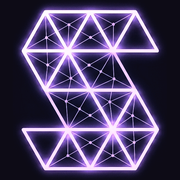
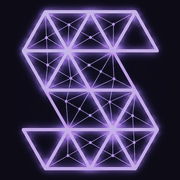
Quieter mark, one light-mode treatment, round flakes, 19:30 boundary
The mark was too shiny. Its core strokes measured (238,211,254) — near-white
with a heavy bloom baked into the artwork's alpha — and a strong CSS glow was
stacked on top of that. Both are dialled back: the PNGs are regenerated with a
thinner bloom and the strokes pulled off white toward the brand violet, and the
drop-shadows are roughly halved. Four strengths were rendered and compared
first; past this one the wireframe starts losing definition at navbar size.

Light mode now uses the same treatment everywhere — navbar, constellation hub
and loader — rather than the dark plate the navbar and loader had been given.
Contrast and saturation, no plate, so the mark reads as one thing in both
themes. Regenerated the favicons from the same master.

Snow: the light-mode flakes were too polite to see. In a clean strip of sky
only three pixels were more than 25/255 off the page ground; now it is 37, and
the strongest flake went from Δ42 to Δ140. They were also squares, because
pointsMaterial rasterises each point as a quad — they now carry a canvas-drawn
disc as a map.

Resume hover: reverted. Letting the fill round itself instead of clipping the
button left a visible grey ring — (178,181,193) for ~3px at the pill's edge
where the fill no longer reached it. The clip is back, and that button gives up
the 1px lift instead, which removes the moving hit box the stabiliser existed to
correct. Its gradient wipe already carries the hover.
[…]

diff --git a/frontend/app/globals.css b/frontend/app/globals.css
@@ -2345,9 +2345,11 @@ html[data-theme="light"] .core-ring-2 { border-color: rgba(124, 58, 237, 0.15); 
 }
 
 .core-logo { display: grid; place-items: center; }
+/* Halved from where this started. The artwork already carries its own bloom;
+   stacking a strong CSS glow on top of it was most of what read as glitter. */
 .logo-mark.is-glowing {
-  filter: drop-shadow(0 0 16px rgba(167, 139, 250, 0.9))
-    drop-shadow(0 0 38px rgba(139, 92, 246, 0.5));
+  filter: drop-shadow(0 0 12px rgba(167, 139, 250, 0.45))
+    drop-shadow(0 0 30px rgba(139, 92, 246, 0.22));
 }
 
 @media (prefers-reduced-motion: reduce) {
@@ -2434,18 +2436,13 @@ html[data-theme="light"] button:hover > .cta-button { box-shadow: none; }
    four directions instead of four separate keyframes. */
 .resume-btn {
   position: relative;
-  /* Deliberately not `overflow: hidden`. Clipping the button also clipped the
-     hover stabiliser below, which has to sit one pixel outside the padding box
-     to hold the hover boundary still. The fill carries its own rounding
-     instead, so nothing needs clipping: at rest it is scaled to zero, and at
-     full scale it is exactly the padding box. */
+  overflow: hidden;
   isolation: isolate;
 }
 .resume-btn .resume-fill {
   position: absolute;
   inset: 0;
   z-index: -1;
-  border-radius: inherit;
   background: var(--grad-accent);
   transition: transform 0.42s cubic-bezier(0.22, 1, 0.36, 1);
 }
@@ -2470,10 +2467,8 @@ html[data-theme="light"] button:hover > .cta-button { box-shadow: none; }
 .resume-btn:hover { border-color: transparent; }
 
 @media (prefers-reduced-motion: reduce) {
-  /* Was scale(7), which relied on the button clipping it. A fade reads the
-     same here and stays inside its own box. */
-  .resume-btn .resume-fill { transform: none; opacity: 0; transition: opacity 0.2s ease; }
-  .resume-btn:hover .resume-fill { opacity: 1; }
+  .resume-btn .resume-fill { transition: opacity 0.2s ease; }
+  .resume-btn:hover .resume-fill { transform: scale(7); }
 }
 
 /* ==========================================================================
@@ -3582,12 +3577,12 @@ html[data-theme="light"] .site-loader::before {
 @keyframes loader-mark {
   0%, 100% {
     transform: scale(0.97);
-    filter: drop-shadow(0 0 10px rgba(167, 139, 250, 0.45));
+    filter: drop-shadow(0 0 8px rgba(167, 139, 250, 0.24));
   }
   62% {
     transform: scale(1.03);
-    filter: drop-shadow(0 0 20px rgba(167, 139, 250, 0.95))
-      drop-shadow(0 0 46px rgba(139, 92, 246, 0.55));
+    filter: drop-shadow(0 0 15px rgba(167, 139, 250, 0.5))
+      drop-shadow(0 0 36px rgba(139, 92, 246, 0.24));
   }
 }
 
@@ -3720,6 +3715,17 @@ html[data-theme="light"] .site-loader::before {
   transition: transform 0.3s ease;
 }
 .btn-surface:hover::after { transform: translateY(1px); }
+
+/* Resume is the exception. It clips itself to keep the edge-wipe fill inside
+   the pill, and that clip crops the stabiliser's one overhanging pixel — an
+   attempt to let the fill round itself instead left a grey ring where it no
+   longer reached the button's edge. So this button gives up the 1px lift
+   rather than its fill: with no transform there is no moving hit box and no
+   flicker to correct. The gradient wipe already carries the hover; the shadow
+   below stands in for the pixel of rise. */
+.resume-btn:hover { transform: none; }
+.resume-btn:hover::after { transform: none; }
+.resume-btn:hover { box-shadow: 0 5px 20px rgba(109, 92, 246, 0.26); }
 .chat-fab::after { transition-duration: 0.25s; }
 .chat-fab:hover::after { transform: translateY(2px); }
 
@@ -3735,56 +3741,47 @@ html[data-theme="light"] .site-loader::before {
 
 /* ==========================================================================
    LIGHT THEME — the neon mark
-   The brand mark is a triangulated neon "S" drawn for a dark ground: pale
-   strokes with the glow baked into the artwork's alpha. Filtering it for light
-   mode was tried and rejected — darkening the strokes darkens the halo with
-   them, and the mark turns into a violet smudge. What the artwork actually
-   needs is the ground it was drawn for, so on light it gets a dark plate. The
-   theme already does exactly this with the assistant button, so it reads as
-   part of the design rather than an exception.
+   One treatment everywhere. The mark is a triangulated neon "S" whose glow
+   lives in the artwork's alpha, so on a light ground it needs contrast rather
+   than a different colour or a plate behind it — saturate and contrast sharpen
+   the strokes while leaving the halo soft, and the drop-shadow supplies the
+   glow the light background swallows. The navbar, the constellation hub and
+   the loader all use it, so the mark reads as one thing in both themes.
    ========================================================================== */
-html[data-theme="light"] .brand-mark {
-  background: #10151b;
-  border-color: rgba(16, 21, 27, 0.35);
+html[data-theme="light"] .logo-mark,
+html[data-theme="light"] .site-loader-mark {
+  filter: saturate(2) contrast(1.75) brightness(0.76)
+    drop-shadow(0 0 9px rgba(124, 58, 237, 0.3));
+}
+html[data-theme="light"] .logo-mark.is-glowing {
+  filter: saturate(2) contrast(1.75) brightness(0.76)
+    drop-shadow(0 0 15px rgba(124, 58, 237, 0.32))
+    drop-shadow(0 0 38px rgba(109, 40, 217, 0.15));
 }
 
-html[data-theme="light"] .site-loader-mark {
-  /* content-box so the padding grows the plate around the art instead of
-     shrinking the art inside it. */
-  box-sizing: content-box;
-  padding: 0.85rem;
-  border-radius: 1.4rem;
-  background: #10151b;
-  animation-name: loader-mark-light;
-}
-/* No brightness or saturation here: on its own plate the artwork is already
-   correct. Only the halo changes — a violet glow that reads on white, pulsing
-   on the same beat the dark theme uses. */
+/* The loader's monogram animates its own filter, so light mode needs matching
+   keyframes rather than a static filter the animation would overwrite. */
+html[data-theme="light"] .site-loader-mark { animation-name: loader-mark-light; }
 @keyframes loader-mark-light {
   0%, 100% {
     transform: scale(0.97);
-    filter: drop-shadow(0 6px 16px rgba(16, 21, 27, 0.16))
-      drop-shadow(0 0 12px rgba(124, 58, 237, 0.18));
+    filter: saturate(2) contrast(1.75) brightness(0.76)
+      drop-shadow(0 0 9px rgba(124, 58, 237, 0.26));
   }
   62% {
     transform: scale(1.03);
-    filter: drop-shadow(0 10px 26px rgba(16, 21, 27, 0.22))
-      drop-shadow(0 0 26px rgba(124, 58, 237, 0.42));
+    filter: saturate(2.05) contrast(1.8) brightness(0.72)
+      drop-shadow(0 0 18px rgba(124, 58, 237, 0.4))
+      drop-shadow(0 0 42px rgba(109, 40, 217, 0.17));
   }
 }
 /* The reduced-motion rule further up is less specific than the one naming the
    light keyframes, so it has to be restated or the animation survives. */
 @media (prefers-reduced-motion: reduce) {
-  html[data-theme="light"] .site-loader-mark { animation: none; }
-}
-
-/* The constellation's hub is freestanding — the strings run into the monogram
-   itself, so a plate there would break the gesture. Contrast and saturation
-   without darkening sharpen the strokes and leave the halo soft. */
-html[data-theme="light"] .logo-mark.is-glowing {
-  filter: saturate(1.9) contrast(1.9)
-    drop-shadow(0 0 18px rgba(124, 58, 237, 0.4))
-    drop-shadow(0 0 44px rgba(109, 40, 217, 0.2));
+  html[data-theme="light"] .site-loader-mark {
+    animation: none;
+    filter: saturate(2) contrast(1.75) brightness(0.76);
+  }
 }
 
 /* The strings ramp from 15%-opacity lavender, which is nothing at all against

diff --git a/frontend/components/HeroModels/Particles.jsx b/frontend/components/HeroModels/Particles.jsx
@@ -1,12 +1,48 @@
 "use client";
 
-import { useRef, useMemo } from "react";
+import { useRef, useMemo, useEffect } from "react";
 import { useFrame } from "@react-three/fiber";
+import * as THREE from "three";
 import { useThemeName } from "@/lib/useTheme";
+
+/**
+ * A round sprite for the flakes.
+ *
+ * `pointsMaterial` rasterises each point as a square quad, so without a
+ * texture the snow falls as little boxes. This paints one soft disc to a
+ * canvas and hands it over as the material's map: solid through the middle so
+ * the flake still reads at 2-3px, then a short falloff so the rim is smooth
+ * rather than aliased.
+ */
+const makeFlake = () => {
+  const c = document.createElement("canvas");
+  c.width = c.height = 64;
+  const ctx = c.getContext("2d");
+  const g = ctx.createRadialGradient(32, 32, 0, 32, 32, 32);
+  g.addColorStop(0, "rgba(255,255,255,1)");
+  g.addColorStop(0.45, "rgba(255,255,255,1)");
+  g.addColorStop(0.72, "rgba(255,255,255,0.55)");
+  g.addColorStop(1, "rgba(255,255,255,0)");
+  ctx.fillStyle = g;
+  ctx.beginPath();
+  ctx.arc(32, 32, 32, 0, Math.PI * 2);
+  ctx.fill();
+  const tex = new THREE.CanvasTexture(c);
+  tex.colorSpace = THREE.SRGBColorSpace;
+  return tex;
+};
 
 const Particles = ({ count = 200 }) => {
   const mesh = useRef();
   const isDay = useThemeName() === "light";
+
+  // Guarded: this is a client component, but Next still renders it on the
+  // server, where there is no canvas to draw into.
+  const flake = useMemo(
+    () => (typeof document === "undefined" ? null : makeFlake()),
+    []
+  );
+  useEffect(() => () => flake?.dispose(), [flake]);
 
   const particles = useMemo(() => {
     const temp = [];
@@ -52,13 +88,18 @@ const Particles = ({ count = 200 }) => {
         />
       </bufferGeometry>
       <pointsMaterial
-        // White flakes are invisible against a light page. In day mode they
-        // become a soft slate and get bigger, reading as drifting motes lit
-        // from the window rather than snow against a night sky.
-        color={isDay ? "#6d7fa8" : "#ffffff"}
-        size={isDay ? 0.075 : 0.05}
+        // White flakes are invisible against a light page, so day mode swaps
+        // them for drifting motes lit from the window rather than snow against
+        // a night sky. The first pass at that was too polite to notice: a pale
+        // slate at 55% read as dust on the screen. Deeper, larger and more
+        // opaque, tinted toward the page's own violet so they belong to it.
+        color={isDay ? "#4a4a8f" : "#ffffff"}
+        size={isDay ? 0.115 : 0.06}
+        map={flake}
+        alphaTest={0.02}
+        sizeAttenuation
         transparent
-        opacity={isDay ? 0.55 : 0.9}
+        opacity={isDay ? 0.85 : 0.9}
         depthWrite={false}
       />
     </points>

diff --git a/frontend/lib/theme.ts b/frontend/lib/theme.ts
@@ -2,8 +2,26 @@ export type Theme = "dark" | "light";
 export type Period = "day" | "night";
 export const THEME_KEY = "sarvagya-theme";
 
+/**
+ * When the site considers it daytime, in minutes past local midnight.
+ *
+ * Defined once and interpolated into the pre-hydration script below, because
+ * the boundary used to be written out twice — as `h >= 6 && h < 18` here and
+ * again inside that script — and two copies of a rule are one edit away from
+ * disagreeing with each other.
+ *
+ * 19:30 rather than 18:00: sunset in Delhi runs from about 17:30 in December
+ * to 19:15 in June, so an 18:00 cutoff flipped the site to night while it was
+ * still broad daylight for half the year.
+ */
+export const DAY_START_MIN = 6 * 60; // 06:00
+export const DAY_END_MIN = 19 * 60 + 30; // 19:30
+
 /** Local to the browser's own timezone — no geo lookup, no permission prompt. */
-export const isDaytime = (d = new Date()) => d.getHours() >= 6 && d.getHours() < 18;
+export const isDaytime = (d = new Date()) => {
+  const m = d.getHours() * 60 + d.getMinutes();
+  return m >= DAY_START_MIN && m < DAY_END_MIN;
+};
 export const periodNow = (d = new Date()): Period => (isDaytime(d) ? "day" : "night");
 
 /**
@@ -29,11 +47,12 @@ export const localZone = () => {
 
 // Runs before hydration so the first paint is already correct. Kept as a source
 // string rather than importing the helpers above: it has to execute in <head>,
-// before any bundle has loaded.
+// before any bundle has loaded. The boundary is interpolated from the constants
+// so there is still only one definition of it.
 export const themeInitScript = `
 (function(){
-  var h=new Date().getHours();
-  var now=(h>=6&&h<18)?"day":"night";
+  var d=new Date(),m=d.getHours()*60+d.getMinutes();
+  var now=(m>=${DAY_START_MIN}&&m<${DAY_END_MIN})?"day":"night";
   var theme=now==="day"?"light":"dark";
   try{
     var p=(localStorage.getItem(${JSON.stringify(THEME_KEY)})||"").split(":");

diff --git a/frontend/constants/index.js b/frontend/constants/index.js
@@ -164,7 +164,7 @@ const expCards = [
 const projects = [
   {
     slug: "kraftshala-convex",
-    title: "Convex — Kraftshala Operations Platform",
+    title: "Convex — Kraftshala Internal Platform",
     tagline:
       "Six months owning features on the internal platform a real team used daily.",
     stack: ["Node.js", "TypeScript", "MySQL", "React"],
